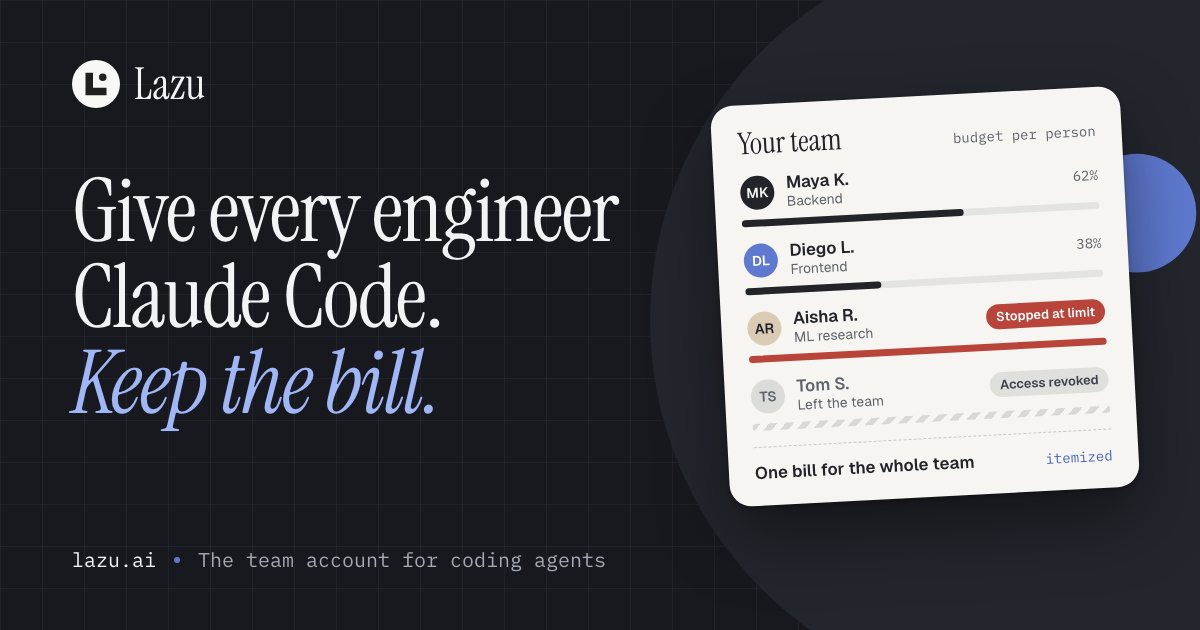
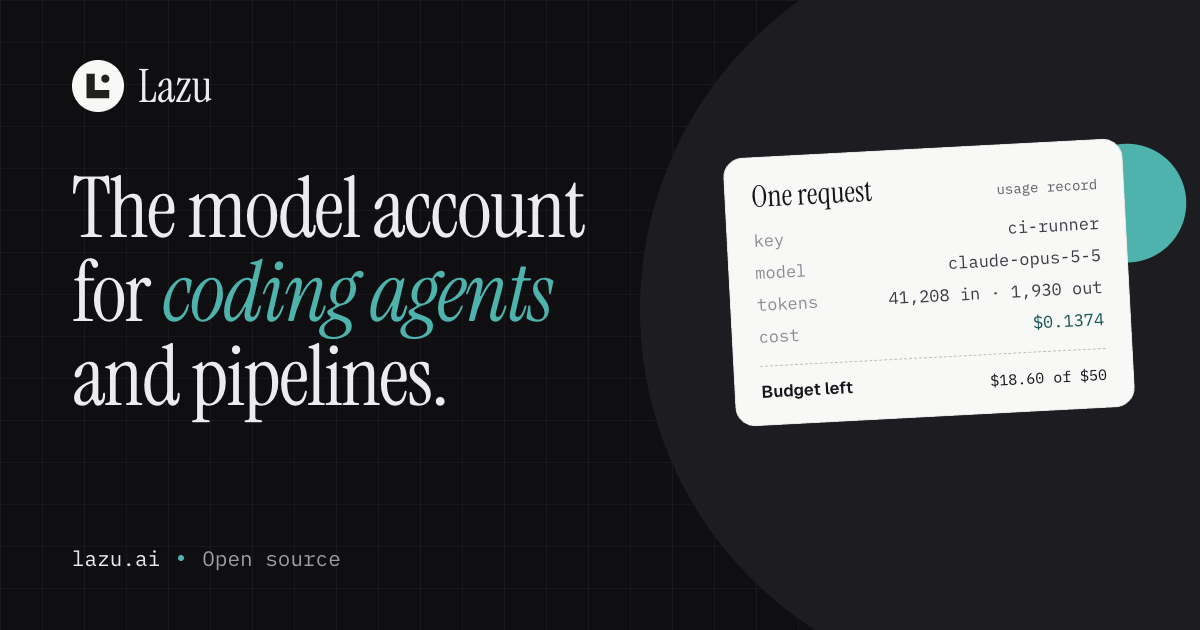
brand: new share image for the model-account positioning (#189)
The site share image (og:image / twitter:image) still said "the team
account for coding agents" in the deprecated periwinkle. Replace it with
the current headline, "The model account for coding agents and
pipelines.", on the dark ground with the seal, the faint grid and a paper
card showing one usage record. The card keeps a hairline and drops the
drop shadow; the accent is the brand teal.

Add the GitHub repository social preview (1280×640) from the same design,
with the repository address in the footer instead of lazu.ai.

diff --git a/brand/assets/logo/social/lazu-og-1200x630.html b/brand/assets/logo/social/lazu-og-1200x630.html
@@ -1,5 +1,5 @@
 <!doctype html>
-<!-- Source of the site-wide share image (og:image / twitter:image, 1200×630).
+<!-- Source of the site-wide share image (og:image / twitter:image) (1200×630).
      Render from this directory (needs network for Geist / IBM Plex Mono):
        chrome --headless=new --hide-scrollbars --force-device-scale-factor=1 \
          --allow-file-access-from-files --window-size=1200,630 \
@@ -7,76 +7,53 @@
          file://$PWD/lazu-og-1200x630.html
      then run brand/assets/logo/generate-assets.mjs, which copies the PNG to
      apps/web/public/og-image.png and the logo package.
-     Design canvas: "Lazu Social OG Images" (2026-10-01). -->
+     Design canvas: "Lazu OG" option K (2026-11-03). Brand tokens: dark ground
+     #0F0F11, paper #F8F8F6, teal #4FB3AD / #175855; the card has a hairline,
+     no shadow. -->
 <html lang="en">
 <head>
 <meta charset="utf-8">
-<title>Lazu OG image</title>
+<title>Lazu share image</title>
 <link href="https://fonts.googleapis.com/css2?family=Geist:wght@400;500;600&amp;family=IBM+Plex+Mono:wght@400;500&amp;display=block" rel="stylesheet">
 <style>
 @font-face{font-family:"Instrument Serif";font-style:normal;font-weight:400;font-display:block;src:url("../../../../apps/web/src/styles/fonts/instrument-serif-latin-400.woff2") format("woff2")}
 @font-face{font-family:"Instrument Serif";font-style:italic;font-weight:400;font-display:block;src:url("../../../../apps/web/src/styles/fonts/instrument-serif-latin-400-italic.woff2") format("woff2")}
 html,body{margin:0;width:1200px;height:630px;overflow:hidden;-webkit-font-smoothing:antialiased}
+.mono{font-family:'IBM Plex Mono',ui-monospace,Menlo,monospace}
 </style>
 </head>
 <body>
-<div style="width: 1200px; height: 630px; box-sizing: border-box; position: relative; overflow: hidden; background-color: #17191e; background-image: linear-gradient(rgba(255,255,255,0.04) 1px, transparent 1px), linear-gradient(90deg, rgba(255,255,255,0.04) 1px, transparent 1px); background-size: 42px 42px; font-family: Geist, sans-serif; color: #f2f3f5">
+<div style="width: 1200px; height: 630px; box-sizing: border-box; position: relative; overflow: hidden; background-color: #0F0F11; background-image: linear-gradient(rgba(255,255,255,0.04) 1px, transparent 1px), linear-gradient(90deg, rgba(255,255,255,0.04) 1px, transparent 1px); background-size: 42px 42px; font-family: Geist, sans-serif; color: #ECECEE">
 
-<svg width="760" height="760" viewBox="0 0 1024 1024" aria-hidden="true" style="position: absolute; right: -210px; top: -60px"><circle cx="512" cy="512" r="512" fill="#23262d"></circle><g transform="scale(16)"><circle cx="41" cy="23" r="5" fill="#5e79cf"></circle></g></svg>
+<svg width="760" height="760" viewBox="0 0 1024 1024" aria-hidden="true" style="position: absolute; right: -200px; top: -70px"><circle cx="512" cy="512" r="512" fill="#1C1C21"></circle><circle cx="656" cy="368" r="80" fill="#4FB3AD"></circle></svg>
 
 <div style="position: absolute; left: 72px; top: 60px; display: flex; align-items: center; gap: 14px">
-<svg width="48" height="48" viewBox="0 0 1024 1024" aria-hidden="true"><circle cx="512" cy="512" r="512" fill="#f8f8f6"></circle><g transform="scale(16)" fill="#20201d"><path d="M18 17h10v20h18v10H18z"></path><circle cx="41" cy="23" r="5"></circle></g></svg>
-<span style="font-family: 'Instrument Serif', serif; font-size: 44px; line-height: 1">Lazu</span>
+<svg width="52" height="52" viewBox="0 0 1024 1024" aria-hidden="true"><circle cx="512" cy="512" r="512" fill="#f8f8f6"></circle><g transform="scale(16)" fill="#20201d"><path d="M18 17h10v20h18v10H18z"></path><circle cx="41" cy="23" r="5"></circle></g></svg>
+<span style="font-family: 'Instrument Serif', serif; font-size: 46px; line-height: 1">Lazu</span>
 </div>
 
-<h1 style="position: absolute; left: 72px; top: 168px; width: 620px; margin: 0; font-family: 'Instrument Serif', serif; font-weight: 400; font-size: 88px; line-height: 0.98; letter-spacing: -0.02em">Give every engineer Claude Code.<br><span style="font-style: italic; color: #9fb6f7">Keep the bill.</span></h1>
+<h1 style="position: absolute; left: 72px; top: 167px; width: 640px; margin: 0; font-family: 'Instrument Serif', serif; font-weight: 400; font-size: 84px; line-height: 1.0; letter-spacing: -0.02em">The model account<br>for <span style="font-style: italic; color: #4FB3AD">coding agents</span><br>and pipelines.</h1>
 
-<div style="position: absolute; left: 72px; bottom: 58px; display: flex; align-items: center; gap: 18px; font-family: 'IBM Plex Mono', monospace; font-size: 20px; color: #a3a8b2">
-<span style="color: #f2f3f5">lazu.ai</span>
-<span style="width: 6px; height: 6px; border-radius: 50%; background-color: #5e79cf"></span>
-<span>The team account for coding agents</span>
+<div style="position: absolute; left: 72px; bottom: 58px; display: flex; align-items: center; gap: 18px; font-size: 21px; color: #9B9DA4" class="mono">
+<span style="color: #ECECEE">lazu.ai</span>
+<span style="width: 6px; height: 6px; border-radius: 50%; background-color: #4FB3AD"></span>
+<span>Open source</span>
 </div>
 
-<div style="position: absolute; right: 70px; top: 96px; width: 410px; box-sizing: border-box; padding: 24px 26px 22px; border-radius: 22px; background-color: #f6f5f1; color: #22242a; transform: rotate(-3deg); box-shadow: 0 2px 4px rgba(0,0,0,0.25), 0 30px 70px rgba(0,0,0,0.45); display: flex; flex-direction: column; gap: 16px">
+<div style="position: absolute; right: 71px; top: 148px; width: 400px; box-sizing: border-box; padding: 24px 26px 22px; border-radius: 20px; background-color: #F8F8F6; color: #14161C; transform: rotate(-3deg); border: 1px solid rgba(20,22,28,0.1); display: flex; flex-direction: column; gap: 18px">
 <div style="display: flex; justify-content: space-between; align-items: baseline">
-<span style="font-family: 'Instrument Serif', serif; font-size: 30px; line-height: 1">Your team</span>
-<span style="font-family: 'IBM Plex Mono', monospace; font-size: 14px; color: #5f646d">budget per person</span>
+<span style="font-family: 'Instrument Serif', serif; font-size: 30px; line-height: 1">One request</span>
+<span class="mono" style="font-size: 14px; color: #5C5F68">usage record</span>
 </div>
-<div style="display: flex; flex-direction: column; gap: 9px">
-<div style="display: flex; align-items: center; gap: 12px">
-<span style="width: 34px; height: 34px; flex-shrink: 0; border-radius: 50%; background-color: #22242a; color: #f6f5f1; font-size: 14px; font-weight: 600; display: flex; align-items: center; justify-content: center">MK</span>
-<div style="display: flex; flex-direction: column; gap: 2px; flex-grow: 1"><span style="font-size: 17px; font-weight: 600; line-height: 1.1">Maya K.</span><span style="font-size: 14px; color: #5f646d; line-height: 1.1">Backend</span></div>
-<span style="font-family: 'IBM Plex Mono', monospace; font-size: 14px; color: #5f646d">62%</span>
+<div class="mono" style="display: flex; flex-direction: column; gap: 10px; font-size: 17px; color: #3A3D45">
+<div style="display: flex; justify-content: space-between"><span style="color: #8A8D96">key</span><span>ci-runner</span></div>
+<div style="display: flex; justify-content: space-between"><span style="color: #8A8D96">model</span><span>claude-opus-5-5</span></div>
+<div style="display: flex; justify-content: space-between"><span style="color: #8A8D96">tokens</span><span>41,208 in · 1,930 out</span></div>
+<div style="display: flex; justify-content: space-between"><span style="color: #8A8D96">cost</span><span style="color: #175855">$0.1374</span></div>
 </div>
-<div style="height: 7px; border-radius: 4px; background-color: rgba(60,66,78,0.1)"><div style="width: 62%; height: 7px; border-radius: 4px; background-color: #22242a"></div></div>
-</div>
-<div style="display: flex; flex-direction: column; gap: 9px">
-<div style="display: flex; align-items: center; gap: 12px">
-<span style="width: 34px; height: 34px; flex-shrink: 0; border-radius: 50%; background-color: #5e79cf; color: #ffffff; font-size: 14px; font-weight: 600; display: flex; align-items: center; justify-content: center">DL</span>
-<div style="display: flex; flex-direction: column; gap: 2px; flex-grow: 1"><span style="font-size: 17px; font-weight: 600; line-height: 1.1">Diego L.</span><span style="font-size: 14px; color: #5f646d; line-height: 1.1">Frontend</span></div>
-<span style="font-family: 'IBM Plex Mono', monospace; font-size: 14px; color: #5f646d">38%</span>
-</div>
-<div style="height: 7px; border-radius: 4px; background-color: rgba(60,66,78,0.1)"><div style="width: 38%; height: 7px; border-radius: 4px; background-color: #22242a"></div></div>
-</div>
-<div style="display: flex; flex-direction: column; gap: 9px">
-<div style="display: flex; align-items: center; gap: 12px">
-<span style="width: 34px; height: 34px; flex-shrink: 0; border-radius: 50%; background-color: #d9cbb4; color: #22242a; font-size: 14px; font-weight: 600; display: flex; align-items: center; justify-content: center">AR</span>
-<div style="display: flex; flex-direction: column; gap: 2px; flex-grow: 1"><span style="font-size: 17px; font-weight: 600; line-height: 1.1">Aisha R.</span><span style="font-size: 14px; color: #5f646d; line-height: 1.1">ML research</span></div>
-<span style="font-size: 13px; font-weight: 600; color: #ffffff; background-color: #b8443a; padding: 4px 10px; border-radius: 999px; white-space: nowrap">Stopped at limit</span>
-</div>
-<div style="height: 7px; border-radius: 4px; background-color: #b8443a"></div>
-</div>
-<div style="display: flex; flex-direction: column; gap: 9px">
-<div style="display: flex; align-items: center; gap: 12px">
-<span style="width: 34px; height: 34px; flex-shrink: 0; border-radius: 50%; background-color: rgba(60,66,78,0.14); color: #5f646d; font-size: 14px; font-weight: 600; display: flex; align-items: center; justify-content: center">TS</span>
-<div style="display: flex; flex-direction: column; gap: 2px; flex-grow: 1"><span style="font-size: 17px; font-weight: 600; line-height: 1.1"><span style="color: #5f646d">Tom S.</span></span><span style="font-size: 14px; color: #5f646d; line-height: 1.1">Left the team</span></div>
-<span style="font-size: 13px; font-weight: 600; color: #3c424e; background-color: rgba(60,66,78,0.12); padding: 4px 10px; border-radius: 999px; white-space: nowrap">Access revoked</span>
-</div>
-<div style="height: 7px; border-radius: 4px; background-image: repeating-linear-gradient(135deg, rgba(60,66,78,0.16) 0 6px, transparent 6px 12px)"></div>
-</div>
-<div style="display: flex; justify-content: space-between; align-items: baseline; padding-top: 14px; border-top: 1.5px dashed rgba(60,66,78,0.25)">
-<span style="font-size: 17px; font-weight: 600">One bill for the whole team</span>
-<span style="font-family: 'IBM Plex Mono', monospace; font-size: 14px; color: #4a66bd">itemized</span>
+<div style="display: flex; justify-content: space-between; align-items: baseline; padding-top: 14px; border-top: 1.5px dashed rgba(20,22,28,0.25)">
+<span style="font-size: 17px; font-weight: 600">Budget left</span>
+<span class="mono" style="font-size: 15px">$18.60 of $50</span>
 </div>
 </div>
 

diff --git a/brand/assets/logo/social/lazu-github-social-1280x640.html b/brand/assets/logo/social/lazu-github-social-1280x640.html
@@ -1,0 +1,62 @@
+<!doctype html>
+<!-- Source of the GitHub repository social preview (1280×640).
+     Render from this directory (needs network for Geist / IBM Plex Mono):
+       chrome --headless=new --hide-scrollbars --force-device-scale-factor=1 \
+         --allow-file-access-from-files --window-size=1280,640 \
+         --virtual-time-budget=6000 --screenshot=lazu-github-social-1280x640.png \
+         file://$PWD/lazu-github-social-1280x640.html
+     then upload the PNG in the repository settings (General → Social preview).
+     The site share image is lazu-og-1200x630.html; keep the two in step.
+     Design canvas: "Lazu OG" option K (2026-11-03). Brand tokens: dark ground
+     #0F0F11, paper #F8F8F6, teal #4FB3AD / #175855; the card has a hairline,
+     no shadow. -->
+<html lang="en">
+<head>
+<meta charset="utf-8">
+<title>Lazu share image</title>
+<link href="https://fonts.googleapis.com/css2?family=Geist:wght@400;500;600&amp;family=IBM+Plex+Mono:wght@400;500&amp;display=block" rel="stylesheet">
+<style>
+@font-face{font-family:"Instrument Serif";font-style:normal;font-weight:400;font-display:block;src:url("../../../../apps/web/src/styles/fonts/instrument-serif-latin-400.woff2") format("woff2")}
+@font-face{font-family:"Instrument Serif";font-style:italic;font-weight:400;font-display:block;src:url("../../../../apps/web/src/styles/fonts/instrument-serif-latin-400-italic.woff2") format("woff2")}
+html,body{margin:0;width:1280px;height:640px;overflow:hidden;-webkit-font-smoothing:antialiased}
+.mono{font-family:'IBM Plex Mono',ui-monospace,Menlo,monospace}
+</style>
+</head>
+<body>
+<div style="width: 1280px; height: 640px; box-sizing: border-box; position: relative; overflow: hidden; background-color: #0F0F11; background-image: linear-gradient(rgba(255,255,255,0.04) 1px, transparent 1px), linear-gradient(90deg, rgba(255,255,255,0.04) 1px, transparent 1px); background-size: 42px 42px; font-family: Geist, sans-serif; color: #ECECEE">
+
+<svg width="760" height="760" viewBox="0 0 1024 1024" aria-hidden="true" style="position: absolute; right: -200px; top: -70px"><circle cx="512" cy="512" r="512" fill="#1C1C21"></circle><circle cx="656" cy="368" r="80" fill="#4FB3AD"></circle></svg>
+
+<div style="position: absolute; left: 72px; top: 60px; display: flex; align-items: center; gap: 14px">
+<svg width="52" height="52" viewBox="0 0 1024 1024" aria-hidden="true"><circle cx="512" cy="512" r="512" fill="#f8f8f6"></circle><g transform="scale(16)" fill="#20201d"><path d="M18 17h10v20h18v10H18z"></path><circle cx="41" cy="23" r="5"></circle></g></svg>
+<span style="font-family: 'Instrument Serif', serif; font-size: 46px; line-height: 1">Lazu</span>
+</div>
+
+<h1 style="position: absolute; left: 72px; top: 170px; width: 640px; margin: 0; font-family: 'Instrument Serif', serif; font-weight: 400; font-size: 84px; line-height: 1.0; letter-spacing: -0.02em">The model account<br>for <span style="font-style: italic; color: #4FB3AD">coding agents</span><br>and pipelines.</h1>
+
+<div style="position: absolute; left: 72px; bottom: 58px; display: flex; align-items: center; gap: 18px; font-size: 21px; color: #9B9DA4" class="mono">
+<span style="color: #ECECEE">github.com/lazu-ai/lazu</span>
+<span style="width: 6px; height: 6px; border-radius: 50%; background-color: #4FB3AD"></span>
+<span>Open source</span>
+</div>
+
+<div style="position: absolute; right: 76px; top: 150px; width: 400px; box-sizing: border-box; padding: 24px 26px 22px; border-radius: 20px; background-color: #F8F8F6; color: #14161C; transform: rotate(-3deg); border: 1px solid rgba(20,22,28,0.1); display: flex; flex-direction: column; gap: 18px">
+<div style="display: flex; justify-content: space-between; align-items: baseline">
+<span style="font-family: 'Instrument Serif', serif; font-size: 30px; line-height: 1">One request</span>
+<span class="mono" style="font-size: 14px; color: #5C5F68">usage record</span>
+</div>
+<div class="mono" style="display: flex; flex-direction: column; gap: 10px; font-size: 17px; color: #3A3D45">
+<div style="display: flex; justify-content: space-between"><span style="color: #8A8D96">key</span><span>ci-runner</span></div>
+<div style="display: flex; justify-content: space-between"><span style="color: #8A8D96">model</span><span>claude-opus-5-5</span></div>
+<div style="display: flex; justify-content: space-between"><span style="color: #8A8D96">tokens</span><span>41,208 in · 1,930 out</span></div>
+<div style="display: flex; justify-content: space-between"><span style="color: #8A8D96">cost</span><span style="color: #175855">$0.1374</span></div>
+</div>
+<div style="display: flex; justify-content: space-between; align-items: baseline; padding-top: 14px; border-top: 1.5px dashed rgba(20,22,28,0.25)">
+<span style="font-size: 17px; font-weight: 600">Budget left</span>
+<span class="mono" style="font-size: 15px">$18.60 of $50</span>
+</div>
+</div>
+
+</div>
+</body>
+</html>
